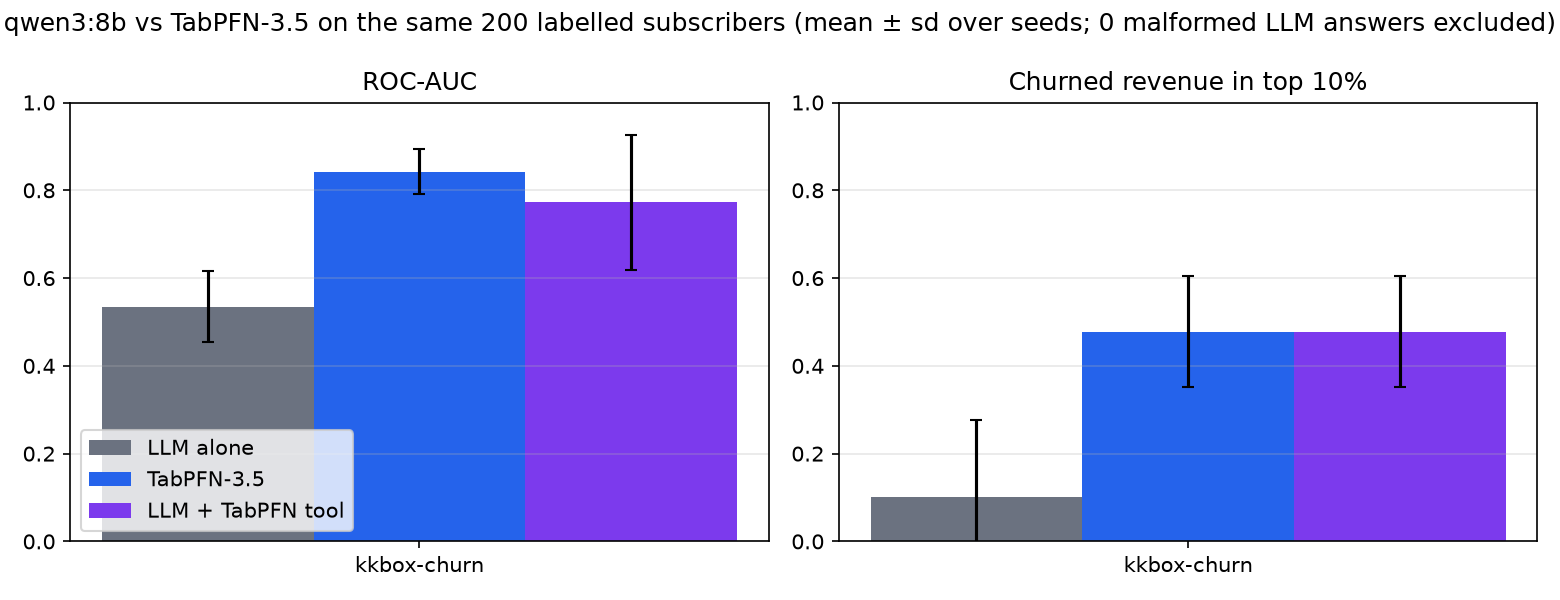
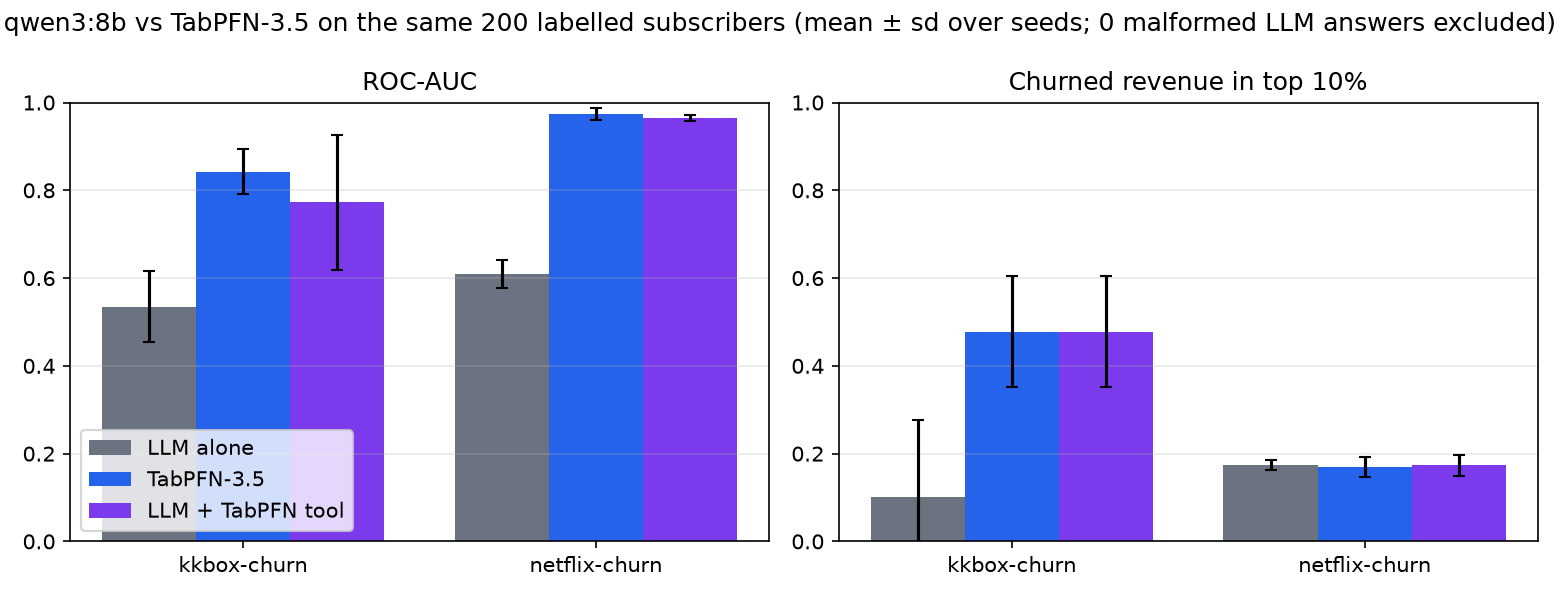
Add Netflix to the LLM vs TabPFN proof, README and reproduce steps

diff --git a/README.md b/README.md
@@ -78,7 +78,7 @@ worker being killed, and a retried rollout is deduplicated instead of sent twice
 
 ### Proof 1: the LLM cannot rank churn from the table, TabPFN can
 
-Same 200 labelled KKBox subscribers, same 100 held-out test rows, three seeds
+Same 200 labelled subscribers, same 100 held-out test rows, three seeds
 ([`scripts/llm_vs_tabpfn.py`](scripts/llm_vs_tabpfn.py), data in
 [`docs/evidence/llm_vs_tabpfn.csv`](docs/evidence/llm_vs_tabpfn.csv)).
 
@@ -88,9 +88,19 @@ Same 200 labelled KKBox subscribers, same 100 held-out test rows, three seeds
 | TabPFN-3.5 | **0.842** | 0.477 |
 | qwen3:8b given TabPFN's score | 0.772 | 0.477 |
 
-![LLM vs TabPFN on KKBox](docs/evidence/llm_vs_tabpfn.png)
+The same protocol on the committed Netflix file (synthetic as far as we can tell):
 
-The LLM alone is close to a coin flip (AUC 0.45 to 0.61 by seed). TabPFN scores 0.79 to 0.88.
+| Arm | AUC (mean of 3 seeds) | Revenue captured in top 10% |
+|---|---|---|
+| qwen3:8b alone, shown the table | **0.609** | 0.174 |
+| TabPFN-3.5 | **0.974** | 0.169 |
+| qwen3:8b given TabPFN's score | 0.965 | 0.173 |
+
+![LLM vs TabPFN on KKBox and Netflix](docs/evidence/llm_vs_tabpfn.png)
+
+On KKBox the LLM alone is close to a coin flip (AUC 0.45 to 0.61 by seed) and TabPFN scores
+0.79 to 0.88. On Netflix the LLM reaches 0.59 to 0.64 and TabPFN 0.96 to 0.99, and the LLM
+keeps TabPFN's ranking on every seed (0.96 to 0.97).
 That is why the agent passes the table to TabPFN instead of reasoning over it.
 
 ### Why a foundation model: the cold-start curve
@@ -121,10 +131,13 @@ where TabPFN's lead is largest.
   is 0.87, 0.85 and 0.60 across seeds. Seed 2 is a real failure to use the score. The revenue
   captured in the top 10% does match TabPFN on every seed. So TabPFN does the ranking, and
   the LLM is not trusted to relay it.
-- **Not a broad benchmark.** Proof 1 is KKBox only, 3 seeds, 100 test rows. In two of three
-  seeds the LLM alone captured no churned revenue in its top 10%.
-- **No TabPFN claim on Netflix.** The data is easy (AUC 0.97 to 1.0 for every model) and
-  probably synthetic. On IBM Telco the lead is small.
+- **Not a broad benchmark.** Proof 1 covers KKBox and Netflix only, 3 seeds, 100 test rows.
+  On KKBox, in two of three seeds the LLM alone captured no churned revenue in its top 10%.
+- **No TabPFN-over-classical claim on Netflix.** The data is easy and probably synthetic:
+  boosted trees match TabPFN (0.974 vs 0.972 at n=200). Netflix only shows that the LLM
+  cannot rank from the table. Its revenue column holds three values (the plan tiers), so
+  revenue captured in the top 10% is about 0.17 for every arm and separates nothing there.
+  On IBM Telco the lead is small.
 - **Revenue is observed, never predicted.** It is what the subscriber last paid, annualised by
   the length of the plan they bought, in NTD. The column was corrected during this work (it
   had been last payment × 12, about 2.5× too high), and every figure here was re-run on the
@@ -297,13 +310,14 @@ uv run python scripts/fetch_datasets.py --kkbox
 uv run python scripts/build_kkbox_cohort.py
 
 # Proof 1 (appends to the CSV and skips rows already there; --plot-only redraws)
-uv run python scripts/llm_vs_tabpfn.py --datasets kkbox-churn telecom-bigml bank-churn
+uv run python scripts/llm_vs_tabpfn.py --datasets kkbox-churn telecom-bigml bank-churn netflix-churn
 
 # cold-start curve (add ibm-telco netflix-churn to --datasets for the full table)
 uv run python scripts/cold_start_curve.py
 ```
 
-The committed `llm_vs_tabpfn.csv` holds KKBox only. `--seeds` and `--test-rows` change the
+The committed `llm_vs_tabpfn.csv` holds KKBox and Netflix. Netflix is the one dataset a fresh
+clone can run without a Kaggle login, since its CSV is committed. `--seeds` and `--test-rows` change the
 protocol (defaults: seeds 0 1 2, 100 test rows).
 
 ## Path to production
